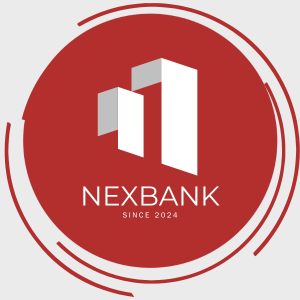
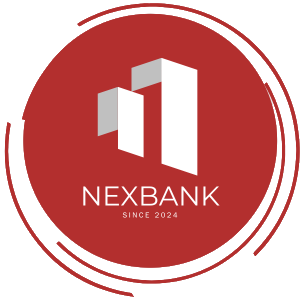
forgot password fix + small UI change

diff --git a/test2.py b/test2.py
@@ -119,7 +119,7 @@ class NexBank(ctk.CTk):
         label_main.pack(pady=50)
 
         image = Image.open("nexbank2.png")
-        resizedImage = image.resize((200, 200), Image.LANCZOS)
+        resizedImage = image.resize((300, 300), Image.LANCZOS)
         img = ImageTk.PhotoImage(resizedImage)
         image_label = ctk.CTkLabel(self.root, image=img, text="")
         image_label.image = img
@@ -138,7 +138,7 @@ class NexBank(ctk.CTk):
         self.clear_window()
 
         image = PhotoImage(file="nexbank2.png")
-        resizedImage = image.subsample(2, 2)
+        resizedImage = image.subsample(1, 1)
 
         self.image_label = ctk.CTkLabel(self.root, image=resizedImage, text="")
         self.image_label.image = resizedImage
@@ -179,7 +179,7 @@ class NexBank(ctk.CTk):
         self.liftAll()
 
         image = PhotoImage(file="nexbank2.png")
-        resizedImage = image.subsample(2, 2)
+        resizedImage = image.subsample(1, 1)
         self.image_label = ctk.CTkLabel(self.dashboard_panel.frame, image=resizedImage, text="")
         self.image_label.image = resizedImage
         self.image_label.pack(pady=20)
@@ -200,7 +200,7 @@ class NexBank(ctk.CTk):
         self.liftAll()
 
         image = PhotoImage(file="nexbank2.png")
-        resizedImage = image.subsample(2, 2)
+        resizedImage = image.subsample(1, 1)
         self.image_label = ctk.CTkLabel(self.dashboard_panel.frame, image=resizedImage, text="")
         self.image_label.image = resizedImage
         self.image_label.pack(pady=20)
@@ -298,7 +298,7 @@ class NexBank(ctk.CTk):
         self.load_transaction_history(self.logged_in_user.email)
 
         image = PhotoImage(file="nexbank2.png")
-        resizedImage = image.subsample(2, 2)
+        resizedImage = image.subsample(1, 1)
         self.image_label = ctk.CTkLabel(self.dashboard_panel.frame, image=resizedImage, text="")
         self.image_label.image = resizedImage
         self.image_label.pack(pady=20)
@@ -351,7 +351,7 @@ class NexBank(ctk.CTk):
         forgot_thread.start()
     
     def enable_window(self):
-        for widget in self.root.winfo_children():
+        for widget in self.login_panel.frame.winfo_children():
             if isinstance(widget, (ctk.CTkButton, ctk.CTkEntry, ctk.CTkCheckBox)):
                 self.enable_widget(widget)
             for child in widget.winfo_children():
@@ -372,7 +372,7 @@ class NexBank(ctk.CTk):
 
     def disable_window(self):
         print("window disabled")
-        for widget in self.root.winfo_children():
+        for widget in self.login_panel.frame.winfo_children():
             if isinstance(widget, (ctk.CTkButton, ctk.CTkEntry, ctk.CTkCheckBox)):
                 self.disable_widget(widget)
             for child in widget.winfo_children():
@@ -540,7 +540,7 @@ class NexBank(ctk.CTk):
         self.liftAll()
 
         image = PhotoImage(file="nexbank2.png")
-        resizedImage = image.subsample(2, 2)
+        resizedImage = image.subsample(1, 1)
         self.image_label = ctk.CTkLabel(self.dashboard_panel.frame, image=resizedImage, text="")
         self.image_label.image = resizedImage
         self.image_label.pack(pady=20)
@@ -594,26 +594,13 @@ class NexBank(ctk.CTk):
             self.error_label_loan.configure(text="Insufficient balance to cover bank charges.")
             return
         
-        # Deduct bank charges from the user's balance
         self.logged_in_user.balance -= bank_charges
-
-        # Add loan amount to the user's balance
         self.logged_in_user.balance += amount
-
-        # Create transaction details
         timestamp = datetime.now().strftime("%Y-%m-%d %H:%M:%S")
         transaction_details = f"Loan of R{amount:.2f} received on {timestamp}, Bank Charges: R{bank_charges:.2f}"
-
-        # Append transaction to user's transaction history
         self.logged_in_user.transactions.append(transaction_details)
-
-        # Save updated user data
         self.save_users()
-
-        # Log transaction to the transaction log
         self.save_transaction_log(self.logged_in_user.email, transaction_details)
-
-        # Update UI with success message
         self.error_label_loan.configure(text="Loan approved and credited to your account.", text_color="green")
         self.create_popup("Loan Accepted", f"Loan of R{amount:.2f} received on {timestamp}.\nBank Charges: R{bank_charges:.2f}")
 
@@ -624,7 +611,7 @@ class NexBank(ctk.CTk):
         self.liftAll()
 
         image = PhotoImage(file="nexbank2.png")
-        resizedImage = image.subsample(2, 2)
+        resizedImage = image.subsample(1, 1)
         self.image_label = ctk.CTkLabel(self.dashboard_panel.frame, image=resizedImage, text="")
         self.image_label.image = resizedImage
         self.image_label.pack(pady=20)
@@ -761,12 +748,75 @@ class LoginPanel:
         self.button_login = ctk.CTkButton(login_frame, text="Login", command=self.login_user, corner_radius=32)
         self.button_login.pack(pady=(5, 10), padx=100)
 
-        self.button_forgot_password = ctk.CTkButton(login_frame, text="Forgot Password", corner_radius=32)
+        self.button_forgot_password = ctk.CTkButton(login_frame, text="Forgot Password", command=self.start_forgot_thread, corner_radius=32)
         self.button_forgot_password.pack(pady=(5, 10), padx=100)
 
         self.button_back = ctk.CTkButton(login_frame, text="Back", command=self.hideLoginPanels, corner_radius=32)
         self.button_back.pack(pady=(5, 10), padx=100)
 
+
+    def start_forgot_thread(self):
+        self.button_forgot_password.configure(text="Please Wait...")
+        self.master.disable_window()
+        forgot_thread = threading.Thread(target=self.forgot_password)
+        forgot_thread.start()
+
+    def handle_forgot_password_error(self, message):
+        self.error_label.configure(text=message)
+        self.reset_forgot_password_button()
+        self.master.enable_window()
+
+    def reset_forgot_password_button(self):
+        self.root.after(0, lambda: self.button_forgot_password.configure(text="Forgot Password"))
+
+    def forgot_password(self):
+        email = self.entry_email.get().strip()
+
+        if not email:
+            self.handle_forgot_password_error("Please enter your email address.")
+            return
+
+        user = self.master.users.get(email)
+        if not user:
+            self.handle_forgot_password_error("Email address not found.")
+            return
+
+        new_password = self.generate_temporary_password()
+        user.password = new_password
+
+        self.send_reset_email(email, new_password)
+        self.master.save_users()
+
+        self.error_label.configure(text="A new password has been sent to your email.", text_color="green")
+        self.reset_forgot_password_button()
+        self.master.enable_window()
+
+    def generate_temporary_password(self, length=8):
+        characters = string.ascii_letters + string.digits + string.punctuation
+        return ''.join(random.choice(characters) for i in range(length))
+    
+    def send_reset_email(self, recipient_email, new_password):
+        sender_email = "sewparsad60@gmail.com"  
+        sender_password = "xahk ahrn vvyl lgua"  
+        subject = " NexBank Password Reset"
+
+        message = MIMEMultipart()
+        message['From'] =  "Nex Bank"
+        message['To'] = recipient_email
+        message['Subject'] = subject
+
+        body = f"Dear NexBank Customer,\n\n Your new password is: {new_password}\n\nPlease apply your new password when logging in.\n\nBest regards,\nNexBank Team"
+        message.attach(MIMEText(body, 'plain'))
+
+        try:
+            server = smtplib.SMTP('smtp.gmail.com', 587)  
+            server.starttls()
+            server.login(sender_email, sender_password)
+            text = message.as_string()
+            server.sendmail(sender_email, recipient_email, text)
+            server.quit()
+        except Exception as e:
+            self.error_label.configure(text=f"Failed to send email: {str(e)}")
 
     def toggle_password_visibility(self):
         if self.entry_password.cget("show") == "":
@@ -842,8 +892,14 @@ class WelcomePanel:
         self.create_welcome_message()
 
     def create_welcome_message(self):
-        label_welcome = ctk.CTkLabel(self.frame, text="Welcome", font=("Helvetica", 25), text_color="#B22E2E")
+        label_welcome = ctk.CTkLabel(self.frame, text="Welcome to NexBank", font=("Helvetica", 25), text_color="#B22E2E")
         label_welcome.pack(pady=10)
+
+        image = PhotoImage(file="nexbank2.png")
+        resizedImage = image.subsample(1, 1)
+        self.image_label = ctk.CTkLabel(self.frame, image=resizedImage, text="")
+        self.image_label.image = resizedImage
+        self.image_label.pack(pady=20)
 
     def show_panel(self):
         self.animate("forward")
